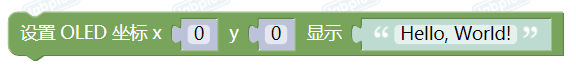
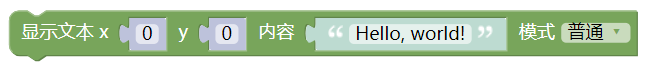
DispChar

diff --git a/source/blocks/oled.rst b/source/blocks/oled.rst
@@ -11,12 +11,18 @@ oled.DispChar()
     :scale: 100 %
 
 
-oled.DispChar(s, x, y)
+oled.DispChar(s, x, y, mode=TextMode.normal)
 
 参数：
 
     - ``s`` -需要显示的文本。
     - ``x`` 、``y`` -文本的左上角作为起点坐标。
+    - ``mode`` - 设置文本模式,默认为TextMode.normal
+
+        - ``TextMode.normal`` - 等于1 。普通模式,文本显示白色,背景为黑色。
+        - ``TextMode.rev`` - 等于2 。反转模式,文本显示黑色,背景为白色。
+        - ``TextMode.trans`` - 等于3 。透明模式,透明文本意味着文本被写在显示中已经可见的内容之上。不同之处在于，以前屏幕上的内容仍然可以看到，而对于normal，背景将被当前选择的背景颜色所替代。
+        - ``TextMode.xor`` - 等于4 。XOR模式,如果背景是黑色的，效果与默认模式(normal模式)相同。如果背景为白色，则反转文本。
 
 示例
 ^^^^^
@@ -63,18 +69,18 @@ oled.fill(c)
 参数：
 
     - ``c`` - 为1时,像素点亮；为0时,像素点灭。
- 
+
 示例
 ^^^^^
 
 
-1秒间隔,全屏亮灭  
+1秒间隔,全屏亮灭
 
 
 .. image:: /images/blocks/oled/example/blink.png
     :scale: 90 %
 
-:download:`点击下载图形化示例</../examples/oled/oled_blink.xml>` 
+:download:`点击下载图形化示例</../examples/oled/oled_blink.xml>`
 
 
 oled.invert()
@@ -97,7 +103,7 @@ oled.invert(n)
 .. image:: /images/blocks/oled/example/invert.png
     :scale: 100 %
 
-:download:`点击下载图形化示例</../examples/oled/oled_invert.xml>` 
+:download:`点击下载图形化示例</../examples/oled/oled_invert.xml>`
 
 
 oled.pixel()
@@ -115,7 +121,7 @@ oled.pixel(x, y,c)
     - ``x`` , ``y`` - 像素点坐标
     - ``c`` - 当为1时,点亮；当为0时,熄灭
 
- 
+
 oled.circle()
 -------------
 
@@ -136,9 +142,9 @@ oled.circle(x, y, radius, c)
 ^^^^^
 
 .. image:: /images/blocks/oled/example/circle.png
-    :scale: 80 %   
+    :scale: 80 %
 
-:download:`点击下载图形化示例</../examples/oled/oled_circle.xml>` 
+:download:`点击下载图形化示例</../examples/oled/oled_circle.xml>`
 
 
 oled.fill_circle()
@@ -161,9 +167,9 @@ oled.fill_circle(x, y, radius, c)
 ^^^^^
 
 .. image:: /images/blocks/oled/example/fill_circle.png
-    :scale: 80 %   
+    :scale: 80 %
 
-:download:`点击下载图形化示例</../examples/oled/oled_fill_circle.xml>` 
+:download:`点击下载图形化示例</../examples/oled/oled_fill_circle.xml>`
 
 
 oled.triangle()
@@ -187,9 +193,9 @@ oled.triangle(x0, y0, x1, y1, x2, y2, c)
 ^^^^^
 
 .. image:: /images/blocks/oled/example/triangle.png
-    :scale: 80 %   
+    :scale: 80 %
 
-:download:`点击下载图形化示例</../examples/oled/oled_triangle.xml>` 
+:download:`点击下载图形化示例</../examples/oled/oled_triangle.xml>`
 
 
 oled.fill_triangle()
@@ -213,9 +219,9 @@ oled.fill_triangle(x0, y0, x1, y1, x2, y2, c)
 ^^^^^
 
 .. image:: /images/blocks/oled/example/fill_triangle.png
-    :scale: 80 %   
+    :scale: 80 %
 
-:download:`点击下载图形化示例</../examples/oled/oled_fill_triangle.xml>` 
+:download:`点击下载图形化示例</../examples/oled/oled_fill_triangle.xml>`
 
 
 oled.hline()
@@ -238,9 +244,9 @@ oled.hline(x, y, w, c)
 ^^^^^
 
 .. image:: /images/blocks/oled/example/hline.png
-    :scale: 80 %   
+    :scale: 80 %
 
-:download:`点击下载图形化示例</../examples/oled/oled_hline.xml>` 
+:download:`点击下载图形化示例</../examples/oled/oled_hline.xml>`
 
 
 oled.vline()
@@ -280,9 +286,9 @@ oled.line(x1, y1, x2, y2, c)
 ^^^^^
 
 .. image:: /images/blocks/oled/example/line.png
-    :scale: 80 %   
+    :scale: 80 %
 
-:download:`点击下载图形化示例</../examples/oled/oled_line.xml>` 
+:download:`点击下载图形化示例</../examples/oled/oled_line.xml>`
 
 
 oled.rect()
@@ -305,9 +311,9 @@ oled.rect(x, y, w, h, c)
 ^^^^^
 
 .. image:: /images/blocks/oled/example/rect.png
-    :scale: 80 %   
+    :scale: 80 %
 
-:download:`点击下载图形化示例</../examples/oled/oled_rect.xml>` 
+:download:`点击下载图形化示例</../examples/oled/oled_rect.xml>`
 
 
 oled.fill_rect()
@@ -330,9 +336,9 @@ oled.fill_rect(x, y, w, h, c)
 ^^^^^
 
 .. image:: /images/blocks/oled/example/fill_rect.png
-    :scale: 80 %   
+    :scale: 80 %
 
-:download:`点击下载图形化示例</../examples/oled/oled_fill_rect.xml>` 
+:download:`点击下载图形化示例</../examples/oled/oled_fill_rect.xml>`
 
 
 oled.RoundRect()
@@ -356,9 +362,9 @@ oled.RoundRect(x, y, w, h, r, c)
 ^^^^^
 
 .. image:: /images/blocks/oled/example/RoundRect.png
-    :scale: 80 %   
+    :scale: 80 %
 
-:download:`点击下载图形化示例</../examples/oled/oled_RoundRect.xml>` 
+:download:`点击下载图形化示例</../examples/oled/oled_RoundRect.xml>`
 
 
 oled.Bitmap()
@@ -383,9 +389,9 @@ oled.Bitmap(x, y, bitmap, w, h, c)
 ^^^^^
 
 .. image:: /images/blocks/oled/example/bitmap.png
-    :scale: 80 %   
+    :scale: 80 %
 
-:download:`点击下载图形化示例</../examples/oled/oled_bitmap.xml>` 
+:download:`点击下载图形化示例</../examples/oled/oled_bitmap.xml>`
 
 
 UI.ProgressBar()
@@ -411,7 +417,7 @@ UI.ProgressBar(x, y, width, height, progress)
 .. image::  /images/blocks/oled/example/ProgressBar.png
     :scale: 100 %
 
-:download:`点击下载图形化示例</../examples/oled/ProgressBar.xml>` 
+:download:`点击下载图形化示例</../examples/oled/ProgressBar.xml>`
 
 UI.stripBar()
 -------------
@@ -432,7 +438,7 @@ UI.stripBar(x, y, width, height, progress,dir=1,frame=1)
     - ``dir`` -柱状条方向。dir=1时水平方向,dir=0时,垂直方向。
     - ``frame`` -当frame=1时,显示外框；当frame=0时,不显示外框。
 
- 
+
 示例
 ^^^^^
 
@@ -440,4 +446,4 @@ UI.stripBar(x, y, width, height, progress,dir=1,frame=1)
 .. image:: /images/blocks/oled/example/light_stripBar.png
     :scale: 100 %
 
-:download:`点击下载图形化示例</../examples/oled/light_stripBar.xml>` 
+:download:`点击下载图形化示例</../examples/oled/light_stripBar.xml>`
